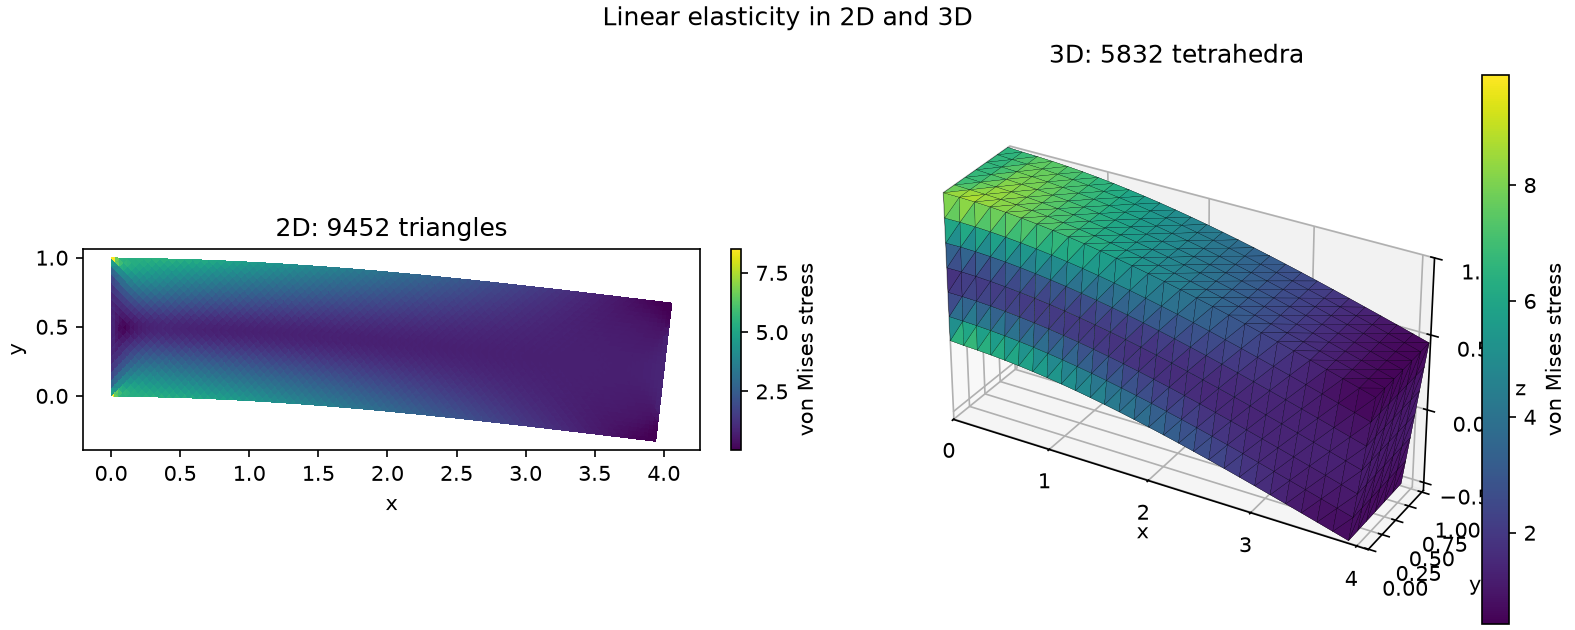
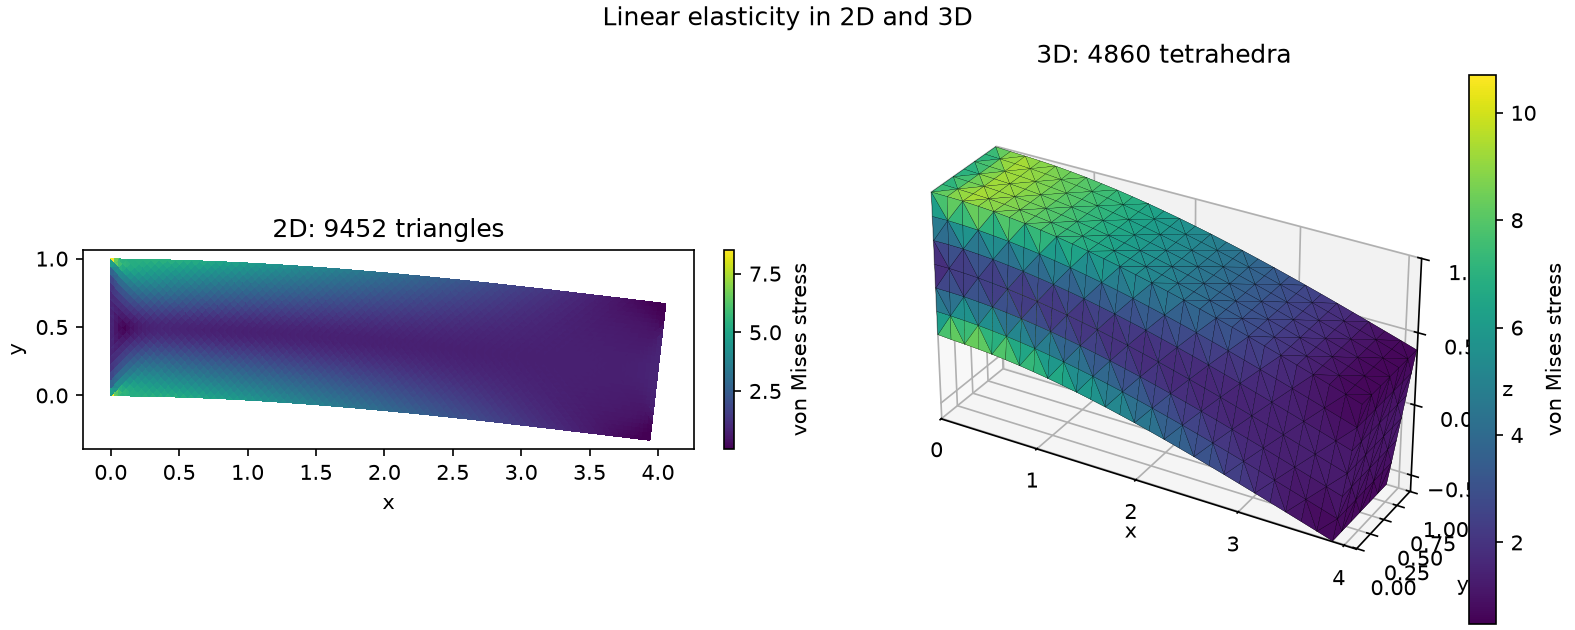
Default 3D box meshes to a regular five-tet split; keep Kuhn selectable (#160)
* Default 3D box meshes to a regular five-tet split; keep Kuhn selectable

box_mesh tetrahedralised each cube with Kuhn's six-tet decomposition. Its tets
are congruent but far from regular (edges 1, sqrt(2), sqrt(3)), which inflates
the interpolation-error constant and stretches the pre-asymptotic regime: the 3D
elasticity MMS had to refine to h = 1/28 before the observed order reached ~2,
and that single fine solve dominated the test suite's runtime.

Switch the default to the five-tet decomposition: a central regular tetrahedron
plus four corner tets, with two mirror forms alternated on an (i + j + k)
checkerboard so shared faces stay conforming (verified for cubic and rectangular
grids; the split is combinatorial on corner indices, so it is independent of the
box's aspect ratio). On a fixed mesh it gives ~4x lower L2 error and a clean
second-order rate from the coarsest level. Same node count, five tets per cell
instead of six.

Kuhn is retained behind `tet_split='kuhn'`, and the module documents why: it
generalises to any dimension and refines through a bounded number of similarity
classes (Bey's bisection), so it is the right base for a future 3D adaptive or
multigrid path, where the regular split has no clean refinement rule.

Test changes:
- test_convergence: the 3D elasticity and Poisson studies drop to coarse
  sequences (n up to 13, not 29) with tighter bands, since the rate is now clean
[…]

diff --git a/fem/mesh/structured.py b/fem/mesh/structured.py
@@ -5,34 +5,69 @@ element-quality variation an unstructured generator introduces. Distinct in inte
 from `ruppert`, whose Delaunay refinement meshes arbitrary outlines.
 """
 from collections.abc import Sequence
+from typing import Literal
 
 import numpy as np
 
 from fem.mesh.mesh import Mesh
-from fem.typing import FloatArray
+from fem.typing import FloatArray, IntArray
 
-# The six tets of Kuhn's decomposition of a cube, over corners indexed by the bits of
-# (di, dj, dk): corner 5 is (1, 0, 1). Every tet contains the main diagonal (corner
-# 000 to 111), one per permutation of the three axes. Because every cell splits along
-# the same diagonal direction, neighbouring cells agree on their shared faces and the
-# mesh is conforming, which is what makes it usable for convergence studies.
+# Cube corners are indexed by the bits of (di, dj, dk): corner c has di = c >> 2, dj =
+# c >> 1, dk = c & 1, so corner 5 is (1, 0, 1). Two corners are cube-edge-adjacent when
+# their indices differ in one bit.
+
+# Kuhn's decomposition: six tets sharing the main diagonal (corner 0 to corner 7), one
+# per permutation of the three axes. Every cell splits the same way, so neighbours agree
+# on shared faces with no orientation bookkeeping. All six tets are congruent, and the
+# decomposition generalises to any dimension and refines through a bounded number of
+# similarity classes (Bey's bisection), which is what makes it the right base for 3D
+# adaptive refinement or multigrid. Its drawback is shape: the shared tet has edges of
+# length 1, sqrt(2), and sqrt(3), far from regular, which inflates the error constant on
+# a fixed mesh. Kept selectable (`tet_split='kuhn'`) for a future 3D adaptive path.
 _KUHN_TETS = [
     (0, 1, 3, 7), (0, 1, 5, 7), (0, 2, 3, 7),
     (0, 2, 6, 7), (0, 4, 5, 7), (0, 4, 6, 7),
 ]
 
+# The five-tetrahedron decomposition: a central tet on the four corners of one parity
+# (all its edges are face diagonals, so it is a regular tetrahedron) plus four corner
+# tets. Every cube has one of two mirror forms, chosen so the diagonal each cuts on a
+# shared face matches its neighbour's; the (i + j + k) checkerboard below alternates
+# them. This is the default: on a fixed mesh its near-regular tets give a much smaller
+# error constant (about 4x lower L2 error, and a clean second-order rate from the
+# coarsest mesh, where Kuhn's is still pre-asymptotic). It has no clean uniform-
+# refinement rule, so it is a static-mesh choice, not an adaptive one.
+_TET5_EVEN = [
+    (0, 3, 5, 6),   # the central regular tet, corners of even parity
+    (0, 1, 3, 5), (0, 2, 3, 6), (0, 4, 5, 6), (3, 5, 6, 7),   # caps at 1, 2, 4, 7
+]
+_TET5_ODD = [
+    (1, 2, 4, 7),   # the mirror form's central tet, corners of odd parity
+    (0, 1, 2, 4), (1, 2, 3, 7), (1, 4, 5, 7), (2, 4, 6, 7),   # caps at 0, 3, 5, 6
+]
+
+TetSplit = Literal['regular', 'kuhn']
+
 
 def box_mesh(
     corners: Sequence[Sequence[float]] | FloatArray,
     resolution: Sequence[int],
+    *,
+    tet_split: TetSplit = 'regular',
 ) -> Mesh:
     '''A structured simplex mesh of the axis-aligned box spanned by `corners`, with
     `resolution` nodes along each axis.
 
     The dimension is the corners': `((x0,), (x1,))` is a line of `LinearLineElement`s,
     `((x0, y0), (x1, y1))` a rectangle of triangles, `((x0, y0, z0), (x1, y1, z1))` a box
-    of tets. Grid cells split into two triangles (alternating diagonals) or six tets
-    (Kuhn's decomposition), so the mesh is conforming.
+    of tets. Grid cells split into two triangles (alternating diagonals) or, in 3D, into
+    tets, so the mesh is conforming.
+
+    `tet_split` (3D only) chooses the tetrahedral decomposition. `'regular'` (the
+    default) is the five-tet split, whose near-regular elements give a smaller error
+    constant and a clean second-order rate from a coarse mesh. `'kuhn'` is the six-tet
+    Kuhn split, which is worse-shaped but refines cleanly, for an adaptive or multigrid
+    3D path; see the module comments.
     '''
     lower, upper = np.asarray(corners, dtype=float)
     dim = len(lower)
@@ -43,7 +78,7 @@ def box_mesh(
     if dim == 2:
         return _rect(lower, upper, resolution)
     if dim == 3:
-        return _box(lower, upper, resolution)
+        return _box(lower, upper, resolution, tet_split)
     raise ValueError(f'box_mesh meshes 1D, 2D, or 3D boxes, got {dim}D corners')
 
 
@@ -73,7 +108,7 @@ def _rect(lower, upper, resolution) -> Mesh:
     return Mesh(vertices, elements)
 
 
-def _box(lower, upper, resolution) -> Mesh:
+def _box(lower, upper, resolution, tet_split: TetSplit) -> Mesh:
     nx, ny, nz = resolution
     x_range = np.linspace(lower[0], upper[0], nx)
     y_range = np.linspace(lower[1], upper[1], ny)
@@ -86,11 +121,27 @@ def _box(lower, upper, resolution) -> Mesh:
     ])
 
     # Every cell at once, i-major, k fastest, so the element order is the cell order
-    # with its six Kuhn tets in sequence.
+    # with its tets in sequence.
     i, j, k = (axis.ravel() for axis in np.meshgrid(
         np.arange(nx - 1), np.arange(ny - 1), np.arange(nz - 1), indexing='ij'))
     c = np.arange(8)
     # The cell's eight corners by the bits of c: (di, dj, dk) = (c >> 2 & 1, c >> 1 & 1, c & 1).
     corners = ((i[:, None] + (c >> 2 & 1)) * ny + (j[:, None] + (c >> 1 & 1))) * nz + (k[:, None] + (c & 1))
-    elements = corners[:, np.array(_KUHN_TETS)].reshape(-1, 4)
+    elements = _tets_per_cell(corners, i + j + k, tet_split)
     return Mesh(vertices, elements)
+
+
+def _tets_per_cell(corners: IntArray, cell_sum: IntArray, tet_split: TetSplit) -> IntArray:
+    '''Turn each cell's eight corner indices into its tets, `(n_cells * n_tets, 4)`.
+
+    Kuhn splits every cell the same way; the regular five-tet split alternates its two
+    mirror forms on the `(i + j + k)` checkerboard so neighbours agree on shared faces.
+    '''
+    if tet_split == 'kuhn':
+        return corners[:, np.array(_KUHN_TETS)].reshape(-1, 4)
+    if tet_split != 'regular':
+        raise ValueError(f"tet_split must be 'regular' or 'kuhn', got {tet_split!r}")
+    even = corners[:, np.array(_TET5_EVEN)]        # (n_cells, 5, 4)
+    odd = corners[:, np.array(_TET5_ODD)]
+    picked = np.where((cell_sum % 2 == 0)[:, None, None], even, odd)
+    return picked.reshape(-1, 4)

diff --git a/tests/test_convergence.py b/tests/test_convergence.py
@@ -15,7 +15,6 @@ from typing import Callable
 import numpy as np
 import pytest
 
-from fem.algebra.backends import IterativeBackend
 from fem.boundary import Dirichlet
 from fem.conditions import Conditions
 from fem.elements import QuadraticTriangleElement
@@ -88,10 +87,9 @@ def elastic_p2():
 
 @cache
 def poisson_3d():
-    # h = 1/8, 1/12, 1/16. The n=5 (h=1/4) coarse level is dropped as pre-asymptotic
-    # on Kuhn tets (it reads 1.74), the same reasoning the 3D elasticity fixture states;
-    # the three kept here are cleanly in band.
-    return ConvergenceStudy.from_solves(poisson_convergence((9, 13, 17), dim=3))
+    # h = 1/4, 1/8, 1/12 on the default regular box mesh. Its near-regular tets are in
+    # band from the coarsest level, where the Kuhn mesh read 1.74; observed 1.93, 1.98.
+    return ConvergenceStudy.from_solves(poisson_convergence((5, 9, 13), dim=3))
 
 
 @cache
@@ -133,9 +131,9 @@ STUDIES = [
     # operator, at the scalar P2 rate.
     Study('elastic_p2', elastic_p2, 3, (2.7, 3.3)),
     # The same scalar Poisson study in 3D, on a tetrahedral box: assembly and the P1
-    # solve on tets, not only triangles. Observed orders 1.91, 1.95, climbing to two as
-    # the 3D elasticity sequence does.
-    Study('poisson_3d', poisson_3d, 2, (1.7, 2.3), floor=5e-3),
+    # solve on tets, not only triangles. On the regular mesh it is in a tighter band
+    # from a coarse sequence; observed orders 1.93, 1.98.
+    Study('poisson_3d', poisson_3d, 2, (1.8, 2.2), floor=5e-3),
     # All-natural boundary: nonzero Neumann flux on three edges and a Robin condition on
     # the fourth, so the boundary-load quadrature and the Robin boundary-mass term enter
     # a rate for the first time. A boundary integral wrong by a factor breaks the O(h^2).
@@ -193,40 +191,30 @@ def test_the_error_is_interior():
 
 @pytest.fixture(scope='module')
 def elastic_3d():
-    # h = 1/8, 1/12, 1/16, 1/20, 1/28.
-    #
-    # The coarse end is dropped. Kuhn tets are distorted enough that the error constant
-    # is large, so h = 1/4 and 1/6 are still pre-asymptotic (they read 1.46 and 1.69)
-    # and including them would force a weaker assertion on the whole sequence. Starting
-    # at h = 1/8 is not cherry-picking the answer: it is declining to measure an
-    # asymptotic rate outside the asymptotic regime.
-    #
-    # AMG-preconditioned CG, not the direct factorization: it solves the same SPD system
-    # (test_backends.py proves them equivalent) but stays cheap on the fine meshes this
-    # sequence needs, and it is what the convergence measures, the assembly, regardless
-    # of how the block is solved. The fine end (n=29) is what it buys: a direct n=29
-    # solve is too slow to keep here, and it is where the observed order finally arrives
-    # near 2 rather than merely climbing toward it.
-    return ConvergenceStudy.from_solves(
-        elastic_convergence((9, 13, 17, 21, 29), dim=3, backend=IterativeBackend()))
+    # h = 1/4, 1/6, 1/8, 1/12, on the default regular (five-tet) box mesh. Its
+    # near-regular tets are asymptotic from the coarsest level, so the sequence stays
+    # coarse and the direct factorization is cheap; the same study on Kuhn tets needed
+    # h down to 1/28 to reach the same rate (see fem/mesh/structured.py). Observed
+    # orders 1.99, 2.00, 2.00.
+    return ConvergenceStudy.from_solves(elastic_convergence((5, 7, 9, 13), dim=3))
 
 
 def test_3d_elasticity_is_second_order(elastic_3d):
-    """The error falls monotonically under refinement, inside the O(h^2) band the 2D
-    case asserts: observed orders 1.79, 1.88, 1.93, 1.96."""
+    """The error falls monotonically under refinement, inside a tight O(h^2) band the
+    Kuhn mesh could not hold at these coarse sizes."""
     for coarse, fine in zip(elastic_3d.error[:-1], elastic_3d.error[1:]):
         assert fine < coarse, f'error grew under refinement: {elastic_3d.error}'
-    assert all(1.7 < p < 2.3 for p in elastic_3d.orders), f'expected ~2nd order, got {elastic_3d.orders}'
+    assert all(1.9 < p < 2.1 for p in elastic_3d.orders), f'expected ~2nd order, got {elastic_3d.orders}'
 
 
-def test_3d_order_climbs_to_two(elastic_3d):
-    """Inside the band is necessary but not sufficient: a defect degrading the rate to
-    a constant 1.8 would pass it. The order must climb monotonically under refinement
-    (a pre-asymptotic reading of a second-order method, not a lower-order one) and the
-    finest pair, which AMG-CG affords, must arrive near 2 rather than merely approach it."""
+def test_3d_is_asymptotic_from_the_coarsest_mesh(elastic_3d):
+    """The regular mesh's payoff: there is no pre-asymptotic drift to climb out of, so
+    the very first pair already reads ~2. That makes this a sharp defect test at coarse
+    sizes, where the old Kuhn sequence could only reach 1.9 by refining to h = 1/28: a
+    defect degrading the rate to a constant 1.8 shows here immediately, on tiny meshes."""
     orders = elastic_3d.orders
-    assert all(fine > coarse for coarse, fine in zip(orders[:-1], orders[1:])), orders
-    assert orders[-1] > 1.95, f'finest order did not reach the asymptotic rate: {orders}'
+    assert orders[0] > 1.95, f'coarsest pair is not yet asymptotic: {orders}'
+    assert 1.95 < elastic_3d.fitted_order < 2.05, f'fitted rate off two: {elastic_3d.fitted_order}'
 
 
 # -- patch tests: exact where the space can be exact --------------------------

diff --git a/tests/test_structured.py b/tests/test_structured.py
@@ -22,9 +22,12 @@ def test_box_mesh_in_2d_covers_the_rectangle():
     assert np.allclose(mesh.bounds[0], [0, 0]) and np.allclose(mesh.bounds[1], [2, 1])
 
 
-def test_box_mesh_in_3d_is_conforming():
-    """Every face belongs to one element (boundary) or two (interior), never more."""
-    mesh = box_mesh(corners=[[0, 0, 0], [1, 2, 1]], resolution=(3, 4, 3))
+@pytest.mark.parametrize('tet_split', ['regular', 'kuhn'])
+def test_box_mesh_in_3d_is_conforming(tet_split):
+    """Every face belongs to one element (boundary) or two (interior), never more. The
+    regular split alternates two mirror forms, so this also checks its checkerboard
+    keeps neighbours agreeing on shared faces."""
+    mesh = box_mesh(corners=[[0, 0, 0], [1, 2, 1]], resolution=(3, 4, 3), tet_split=tet_split)
     assert mesh.element_dim == 3
     faces = np.sort(mesh.elements[:, [[1, 2, 3], [0, 2, 3], [0, 1, 3], [0, 1, 2]]]
                     .reshape(-1, 3), axis=1)
@@ -33,14 +36,20 @@ def test_box_mesh_in_3d_is_conforming():
 
 
 @pytest.mark.parametrize('n', [2, 3, 5])
-def test_box_mesh_tiles_the_cube_exactly(n):
-    """Kuhn's decomposition gives 6 tets per cell, and they must partition the
-    cube: element volumes summing to 1 catches a mis-numbered corner, which
-    would otherwise produce overlapping or inverted tets."""
-    mesh = box_mesh(corners=[[0, 0, 0], [1, 1, 1]], resolution=(n, n, n))
+@pytest.mark.parametrize('tet_split, per_cell', [('regular', 5), ('kuhn', 6)])
+def test_box_mesh_tiles_the_cube_exactly(n, tet_split, per_cell):
+    """Each decomposition partitions the cube: element volumes summing to 1 catches a
+    mis-numbered corner, which would otherwise produce overlapping or inverted tets. The
+    regular split gives five tets per cell, Kuhn six."""
+    mesh = box_mesh(corners=[[0, 0, 0], [1, 1, 1]], resolution=(n, n, n), tet_split=tet_split)
     assert mesh.n_vertices == n**3
-    assert mesh.n_elements == 6 * (n - 1)**3
+    assert mesh.n_elements == per_cell * (n - 1)**3
     assert mesh.measure == pytest.approx(1.0)
+
+
+def test_box_mesh_rejects_an_unknown_tet_split():
+    with pytest.raises(ValueError, match='tet_split'):
+        box_mesh(corners=[[0, 0, 0], [1, 1, 1]], resolution=(3, 3, 3), tet_split='banana')  # type: ignore[arg-type]
 
 
 def test_box_mesh_boundary_is_the_cube_surface():
@@ -65,19 +74,29 @@ def test_box_mesh_refuses_mismatched_dimensions():
 
 
 
-def _cell_loop_box(nx, ny, nz):
-    """The Kuhn decomposition written as the loop over cells it describes, the readable
-    form the vectorized `box_mesh` must reproduce vertex for vertex and tet for tet."""
+_KUHN = [(0, 1, 3, 7), (0, 1, 5, 7), (0, 2, 3, 7), (0, 2, 6, 7), (0, 4, 5, 7), (0, 4, 6, 7)]
+_TET5_EVEN = [(0, 3, 5, 6), (0, 1, 3, 5), (0, 2, 3, 6), (0, 4, 5, 6), (3, 5, 6, 7)]
+_TET5_ODD = [(1, 2, 4, 7), (0, 1, 2, 4), (1, 2, 3, 7), (1, 4, 5, 7), (2, 4, 6, 7)]
+
+
+def _cell_loop_box(nx, ny, nz, tet_split):
+    """A decomposition written as the loop over cells it describes, the readable form the
+    vectorized `box_mesh` must reproduce vertex for vertex and tet for tet. Kuhn splits
+    every cell the same way; the regular split alternates its two mirror forms on the
+    (i + j + k) checkerboard."""
     def node(i, j, k):
         return (i * ny + j) * nz + k
 
-    kuhn = [(0, 1, 3, 7), (0, 1, 5, 7), (0, 2, 3, 7), (0, 2, 6, 7), (0, 4, 5, 7), (0, 4, 6, 7)]
     elements = []
     for i in range(nx - 1):
         for j in range(ny - 1):
             for k in range(nz - 1):
                 corner = [node(i + (c >> 2 & 1), j + (c >> 1 & 1), k + (c & 1)) for c in range(8)]
-                elements.extend([[corner[c] for c in tet] for tet in kuhn])
+                if tet_split == 'kuhn':
+                    tets = _KUHN
+                else:
+                    tets = _TET5_EVEN if (i + j + k) % 2 == 0 else _TET5_ODD
+                elements.extend([[corner[c] for c in tet] for tet in tets])
     return np.array(elements)
 
 
@@ -96,7 +115,8 @@ def _cell_loop_rect(nx, ny):
     return np.array(elements)
 
 
-def test_box_mesh_connectivity_is_the_cell_loop_written_out():
+@pytest.mark.parametrize('tet_split', ['regular', 'kuhn'])
+def test_box_mesh_connectivity_is_the_cell_loop_written_out(tet_split):
     """The vectorized builders reproduce the per-cell loops exactly: the same vertex
     order (x fastest in 2D, z fastest in 3D) and the same element order, so a mesh
     fingerprint recorded on one is valid on the other."""
@@ -104,6 +124,6 @@ def test_box_mesh_connectivity_is_the_cell_loop_written_out():
     np.testing.assert_array_equal(rect.elements, _cell_loop_rect(6, 4))
     np.testing.assert_array_equal(rect.vertices[:6, 1], 0.0)          # the first row is y = 0, x varying
 
-    box = box_mesh(corners=[[0, 0, 0], [2, 1, 1]], resolution=(5, 4, 3))
-    np.testing.assert_array_equal(box.elements, _cell_loop_box(5, 4, 3))
+    box = box_mesh(corners=[[0, 0, 0], [2, 1, 1]], resolution=(5, 4, 3), tet_split=tet_split)
+    np.testing.assert_array_equal(box.elements, _cell_loop_box(5, 4, 3, tet_split))
     np.testing.assert_array_equal(box.vertices[:3, :2], 0.0)          # the first column is x = y = 0, z varying

diff --git a/tests/test_assembly.py b/tests/test_assembly.py
@@ -98,29 +98,29 @@ def unit_cube():
 def test_scalar_operators_on_cube(unit_cube):
     V = FunctionSpace(unit_cube)
     assert fingerprint(V.mass_matrix) == approx({
-        'shape': (27, 27), 'nnz': 223, 'trace': 0.4,
-        'fro': 0.10520317644135, 'sum': 1.0,
+        'shape': (27, 27), 'nnz': 207, 'trace': 0.4,
+        'fro': 0.12140668570278, 'sum': 1.0,
     })
     assert fingerprint(V.assemble(DiffusionForm())) == approx({
-        'shape': (27, 27), 'nnz': 135, 'trace': 24.0,
-        'fro': 6.1101009266078, 'sum': 0.0,
+        'shape': (27, 27), 'nnz': 207, 'trace': 20.0,
+        'fro': 4.987484335815, 'sum': 0.0,
     })
 
 
 def test_vector_operators_on_cube(unit_cube):
     V = FunctionSpace(unit_cube, n_components=3)
     assert fingerprint(V.mass_matrix) == approx({
-        'shape': (81, 81), 'nnz': 669, 'trace': 1.2,
-        'fro': 0.18221724671416, 'sum': 3.0,
+        'shape': (81, 81), 'nnz': 621, 'trace': 1.2,
+        'fro': 0.21028254801576, 'sum': 3.0,
     })
     assert fingerprint(V.boundary_mass_matrix) == approx({
         'shape': (81, 81), 'nnz': 510, 'trace': 9.0,
-        'fro': 1.1180339887499, 'sum': 18.0,
+        'fro': 1.1456439237390, 'sum': 18.0,
     })
     K = V.assemble(LinearElasticForm(LinearElasticMaterial(200.0, 0.3)))
     assert fingerprint(K) == approx({
-        'shape': (81, 81), 'nnz': 1659, 'trace': 10153.846153846,
-        'fro': 1660.0583982503, 'sum': 0.0,
+        'shape': (81, 81), 'nnz': 1317, 'trace': 8461.538461538,
+        'fro': 1347.5496426654, 'sum': 0.0,
     })
 
 
@@ -196,7 +196,10 @@ def test_scatter_matches_a_direct_coo_sum(mesh):
     assembled = V.assemble(form)
     np.testing.assert_array_equal(assembled.indptr, reference.indptr)
     np.testing.assert_array_equal(assembled.indices, reference.indices)
-    np.testing.assert_allclose(assembled.data, reference.data, rtol=1e-12)
+    # `atol` covers the entries that cancel to zero: the scatter's bincount and the COO
+    # sum add the same terms in a different order, so a structural zero lands at ~1e-14
+    # in one and ~0 in the other, which no relative tolerance can bridge.
+    np.testing.assert_allclose(assembled.data, reference.data, rtol=1e-12, atol=1e-10)
 
 
 def test_scatter_plan_is_not_bound_to_the_first_form_assembled(mesh):
